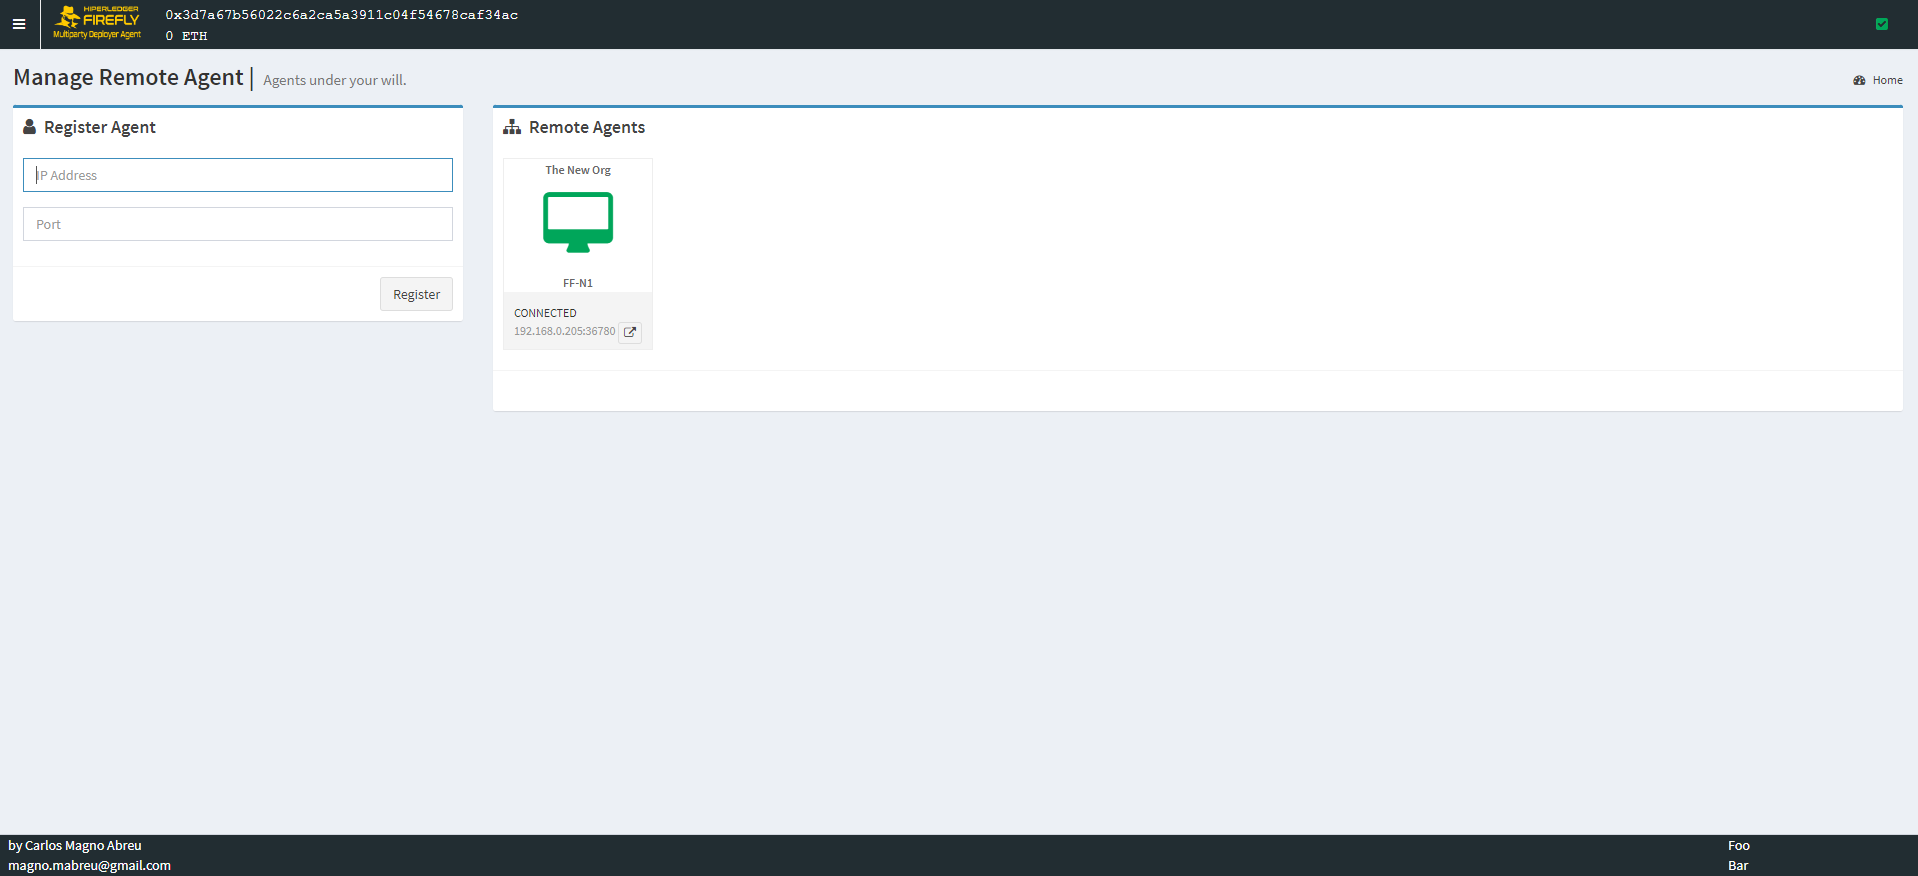
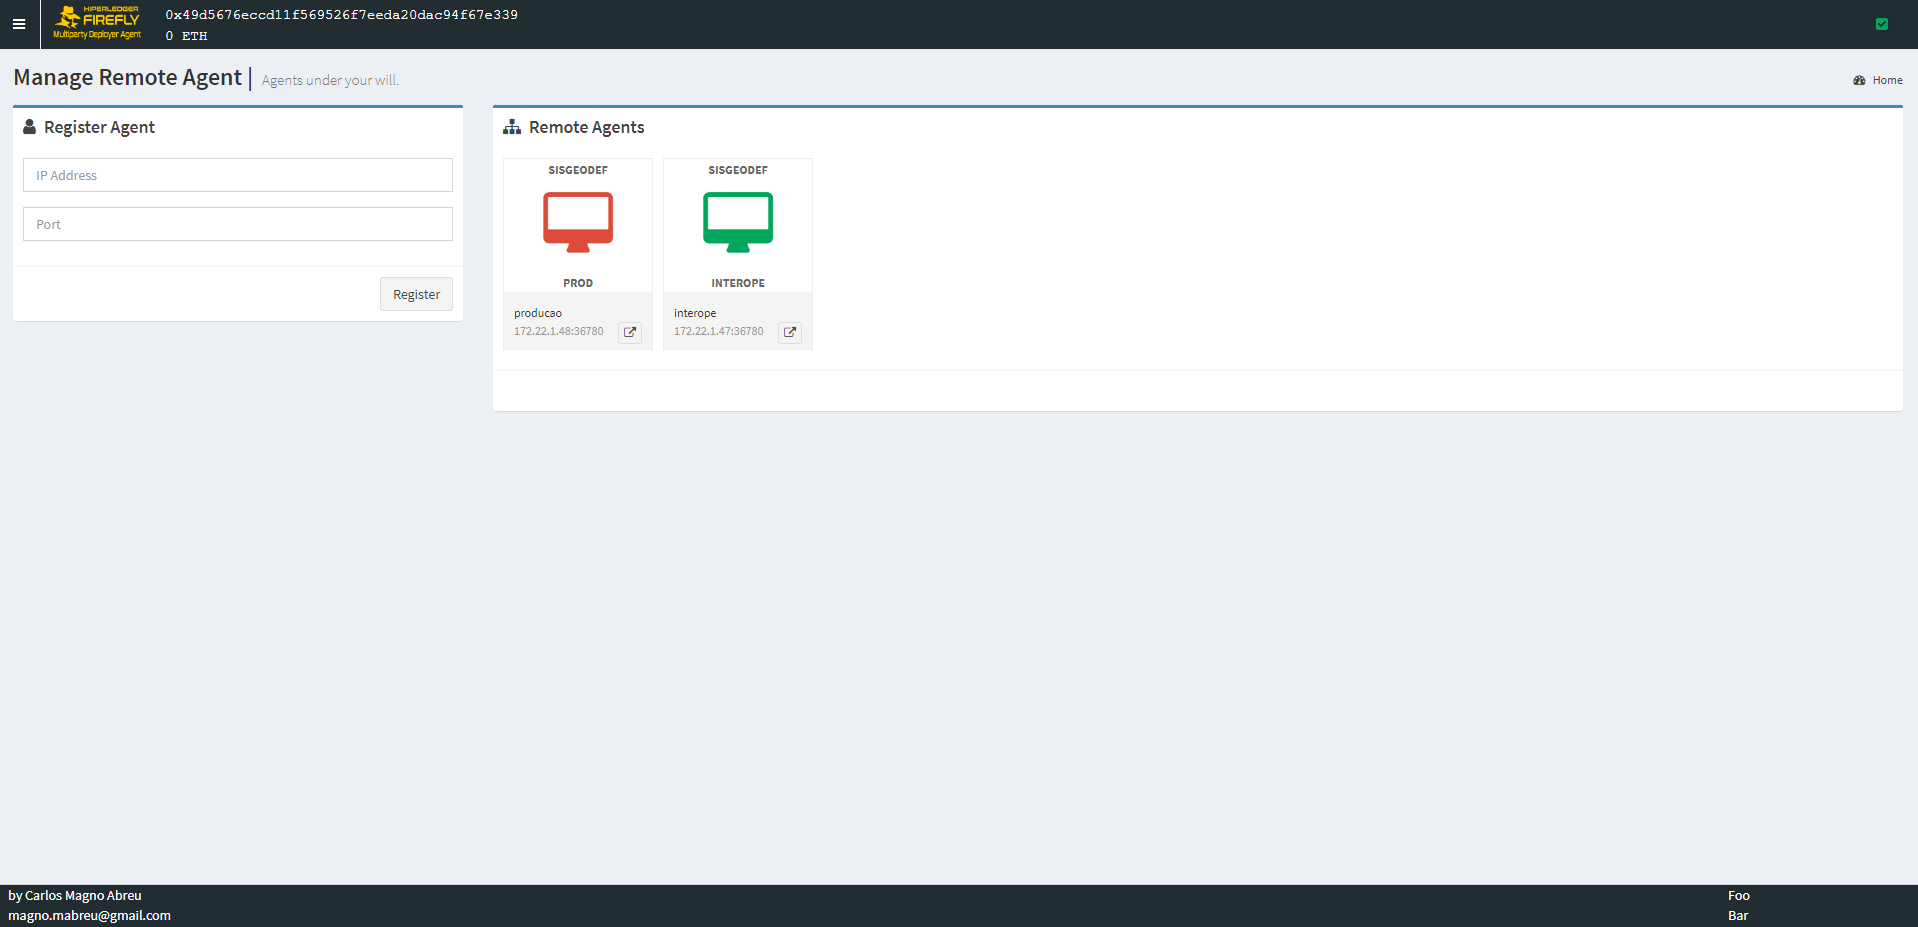
Manipulation of agents' hosts file to find other agents by hostname

diff --git a/master/src/main/resources/static/common/remote.js b/master/src/main/resources/static/common/remote.js
@@ -59,7 +59,7 @@ function processAgent( agent ){
 	let statusColor = getStatusColor( agent.status );
 	if ( $( "#" + agent.id ).length ) {
 		addStatusColor("#ico_" + agent.id, statusColor );
-		$("#sts_" + agent.id).text( agent.status );
+		$("#sts_" + agent.id).text( agent.hostName );
 		$("#nn_" + agent.id).text( agent.nodeName );
 		$("#on_" + agent.id).text( agent.orgName );
 	} else {
@@ -74,7 +74,7 @@ function getAgentCard( agent ){
       '<span class="mailbox-attachment-icon" style="padding-bottom: 0px; padding-top:0px;"><i id="ico_'+agent.id+'"  class="fa fa-desktop '+statusColor+'"></i></span>' +
       '<span class="mailbox-attachment-name"><small id="nn_'+agent.id+'">'+agent.nodeName+'</small></span>' +
       '<div class="mailbox-attachment-info text-left">' +
-      		'<small id="sts_'+agent.id+'">' + agent.status + '</small>' +  
+      		'<small id="sts_'+agent.id+'">' + agent.hostName + '</small>' +  
             '<span class="mailbox-attachment-size">' +
               agent.ipAddress + ":" + agent.port + 
              '<a href="#" class="btn btn-default btn-xs pull-right"><i class="fa fa-external-link"></i></a>' +

diff --git a/remote/src/main/java/br/com/j1scorpii/ffmda/services/CommService.java b/remote/src/main/java/br/com/j1scorpii/ffmda/services/CommService.java
@@ -37,9 +37,6 @@ public class CommService {
 	@Value("${ffmda.host.name}")
 	private String hostName;
 	
-	@Value("${ffmda.host.address}")
-	private String hostAddress;
-	
 	private EtcHosts hosts;
 	
 	@PostConstruct
@@ -86,13 +83,7 @@ public class CommService {
 		System.out.println("A brother Agent...");
 		System.out.println( payload.toString(5) );
 
-		String ipAddress = payload.getString("ipAddress");
-		if( !hosts.getHosts().containsKey( ipAddress ) ) {
-			hosts.getHosts().put( ipAddress, payload.getString("hostName") );
-			hosts.save();
-		}
-		
-		
+		hosts.addIfNotExists( payload.getString("ipAddress"), payload.getString("hostName") );
 	}
 
 	// The Master is asking me about who am I.
@@ -104,7 +95,6 @@ public class CommService {
 			.put("nodeName", this.nodeName )
 			.put("hostName", this.hostName )
 			.put("orgName", this.orgName )
-			.put("hostAddress", this.hostAddress )
 			.toString() 
 		);
 	}

diff --git a/remote/src/main/java/br/com/j1scorpii/ffmda/util/EtcHosts.java b/remote/src/main/java/br/com/j1scorpii/ffmda/util/EtcHosts.java
@@ -20,6 +20,13 @@ public class EtcHosts {
 		if ( new File( this.backupFile ).exists() ) giveMyHostsBackPlease();
 	}
 	
+	public void addIfNotExists( String ipAddress, String hostName ) {
+		if( !hosts.containsKey( ipAddress ) || !hosts.get(ipAddress).equals(hostName) ) {
+			hosts.put( ipAddress, hostName );
+			save();
+		} 
+	}
+	
 	private void read( String fromWhere ) {
 		try {
 			Scanner s = new Scanner(new File( fromWhere ));
@@ -60,7 +67,7 @@ public class EtcHosts {
 	private void save( String toWhere ) {
 		try {
 			FileWriter writer = new FileWriter( toWhere );
-			writer.write( "#  FF-MDA Controll this file. Do not edit! " + System.lineSeparator() );
+			writer.write( "#  FF-MDA controls this file. Do not edit! " + System.lineSeparator() );
 			for (Map.Entry<String, String> entry : hosts.entrySet()) {
 			    String key = entry.getKey();
 			    String value = entry.getValue();

diff --git a/master/src/main/java/br/com/j1scorpii/ffmda/util/EtcHosts.java b/master/src/main/java/br/com/j1scorpii/ffmda/util/EtcHosts.java
@@ -21,10 +21,10 @@ public class EtcHosts {
 	}
 	
 	public void addIfNotExists( String ipAddress, String hostName ) {
-		if( !hosts.containsKey( ipAddress ) ) {
+		if( !hosts.containsKey( ipAddress ) || !hosts.get(ipAddress).equals(hostName) ) {
 			hosts.put( ipAddress, hostName );
 			save();
-		}		
+		} 
 	}
 	
 	private void read( String fromWhere ) {
